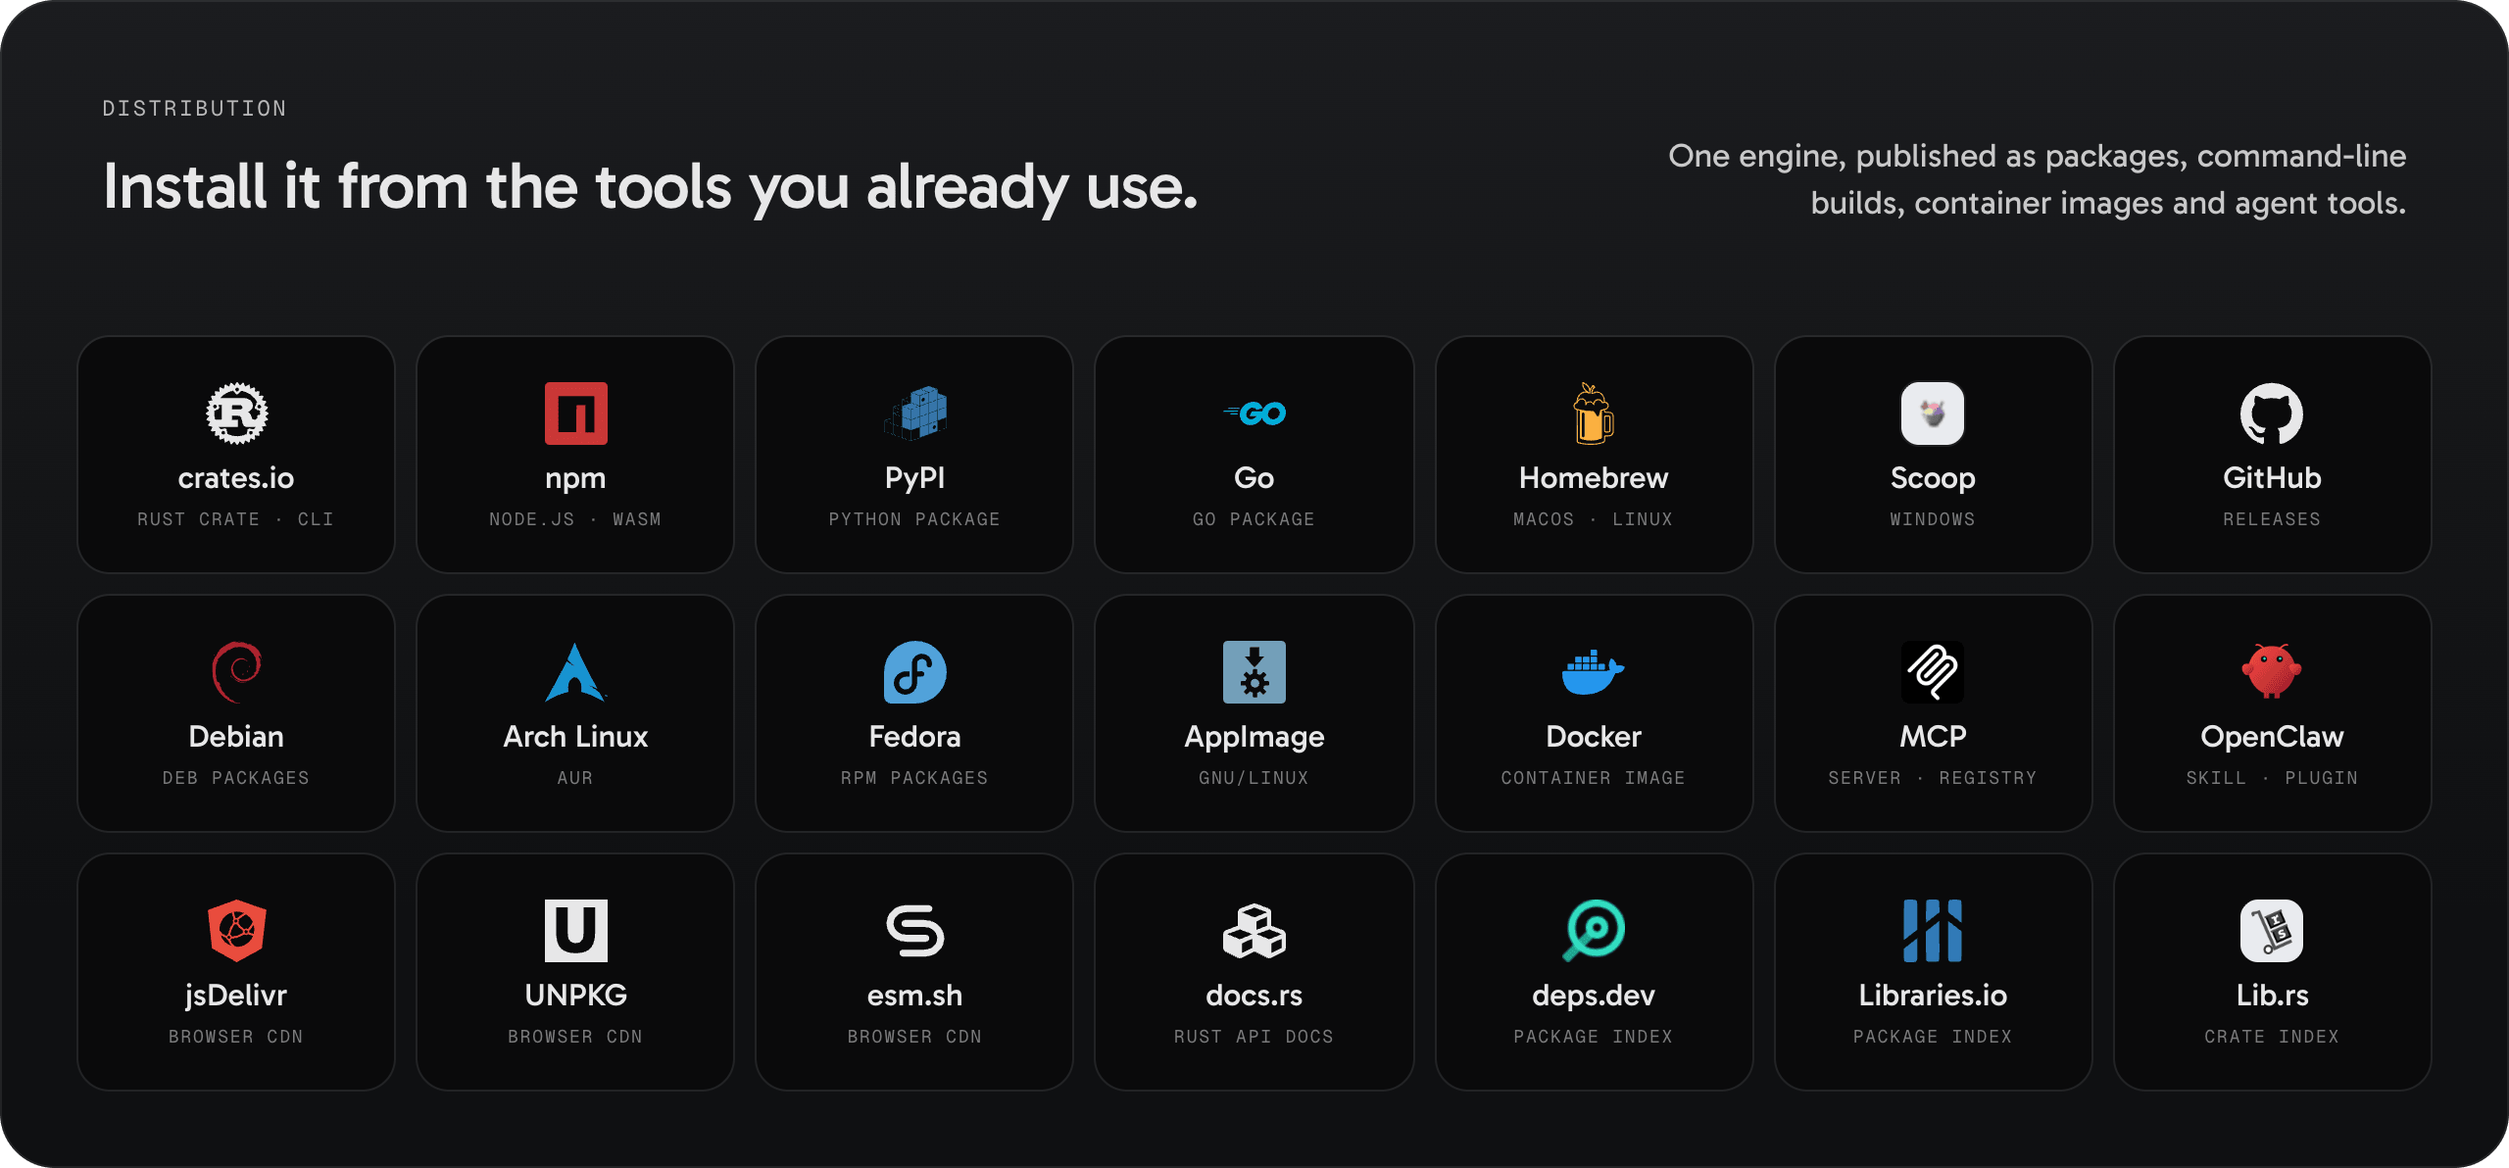
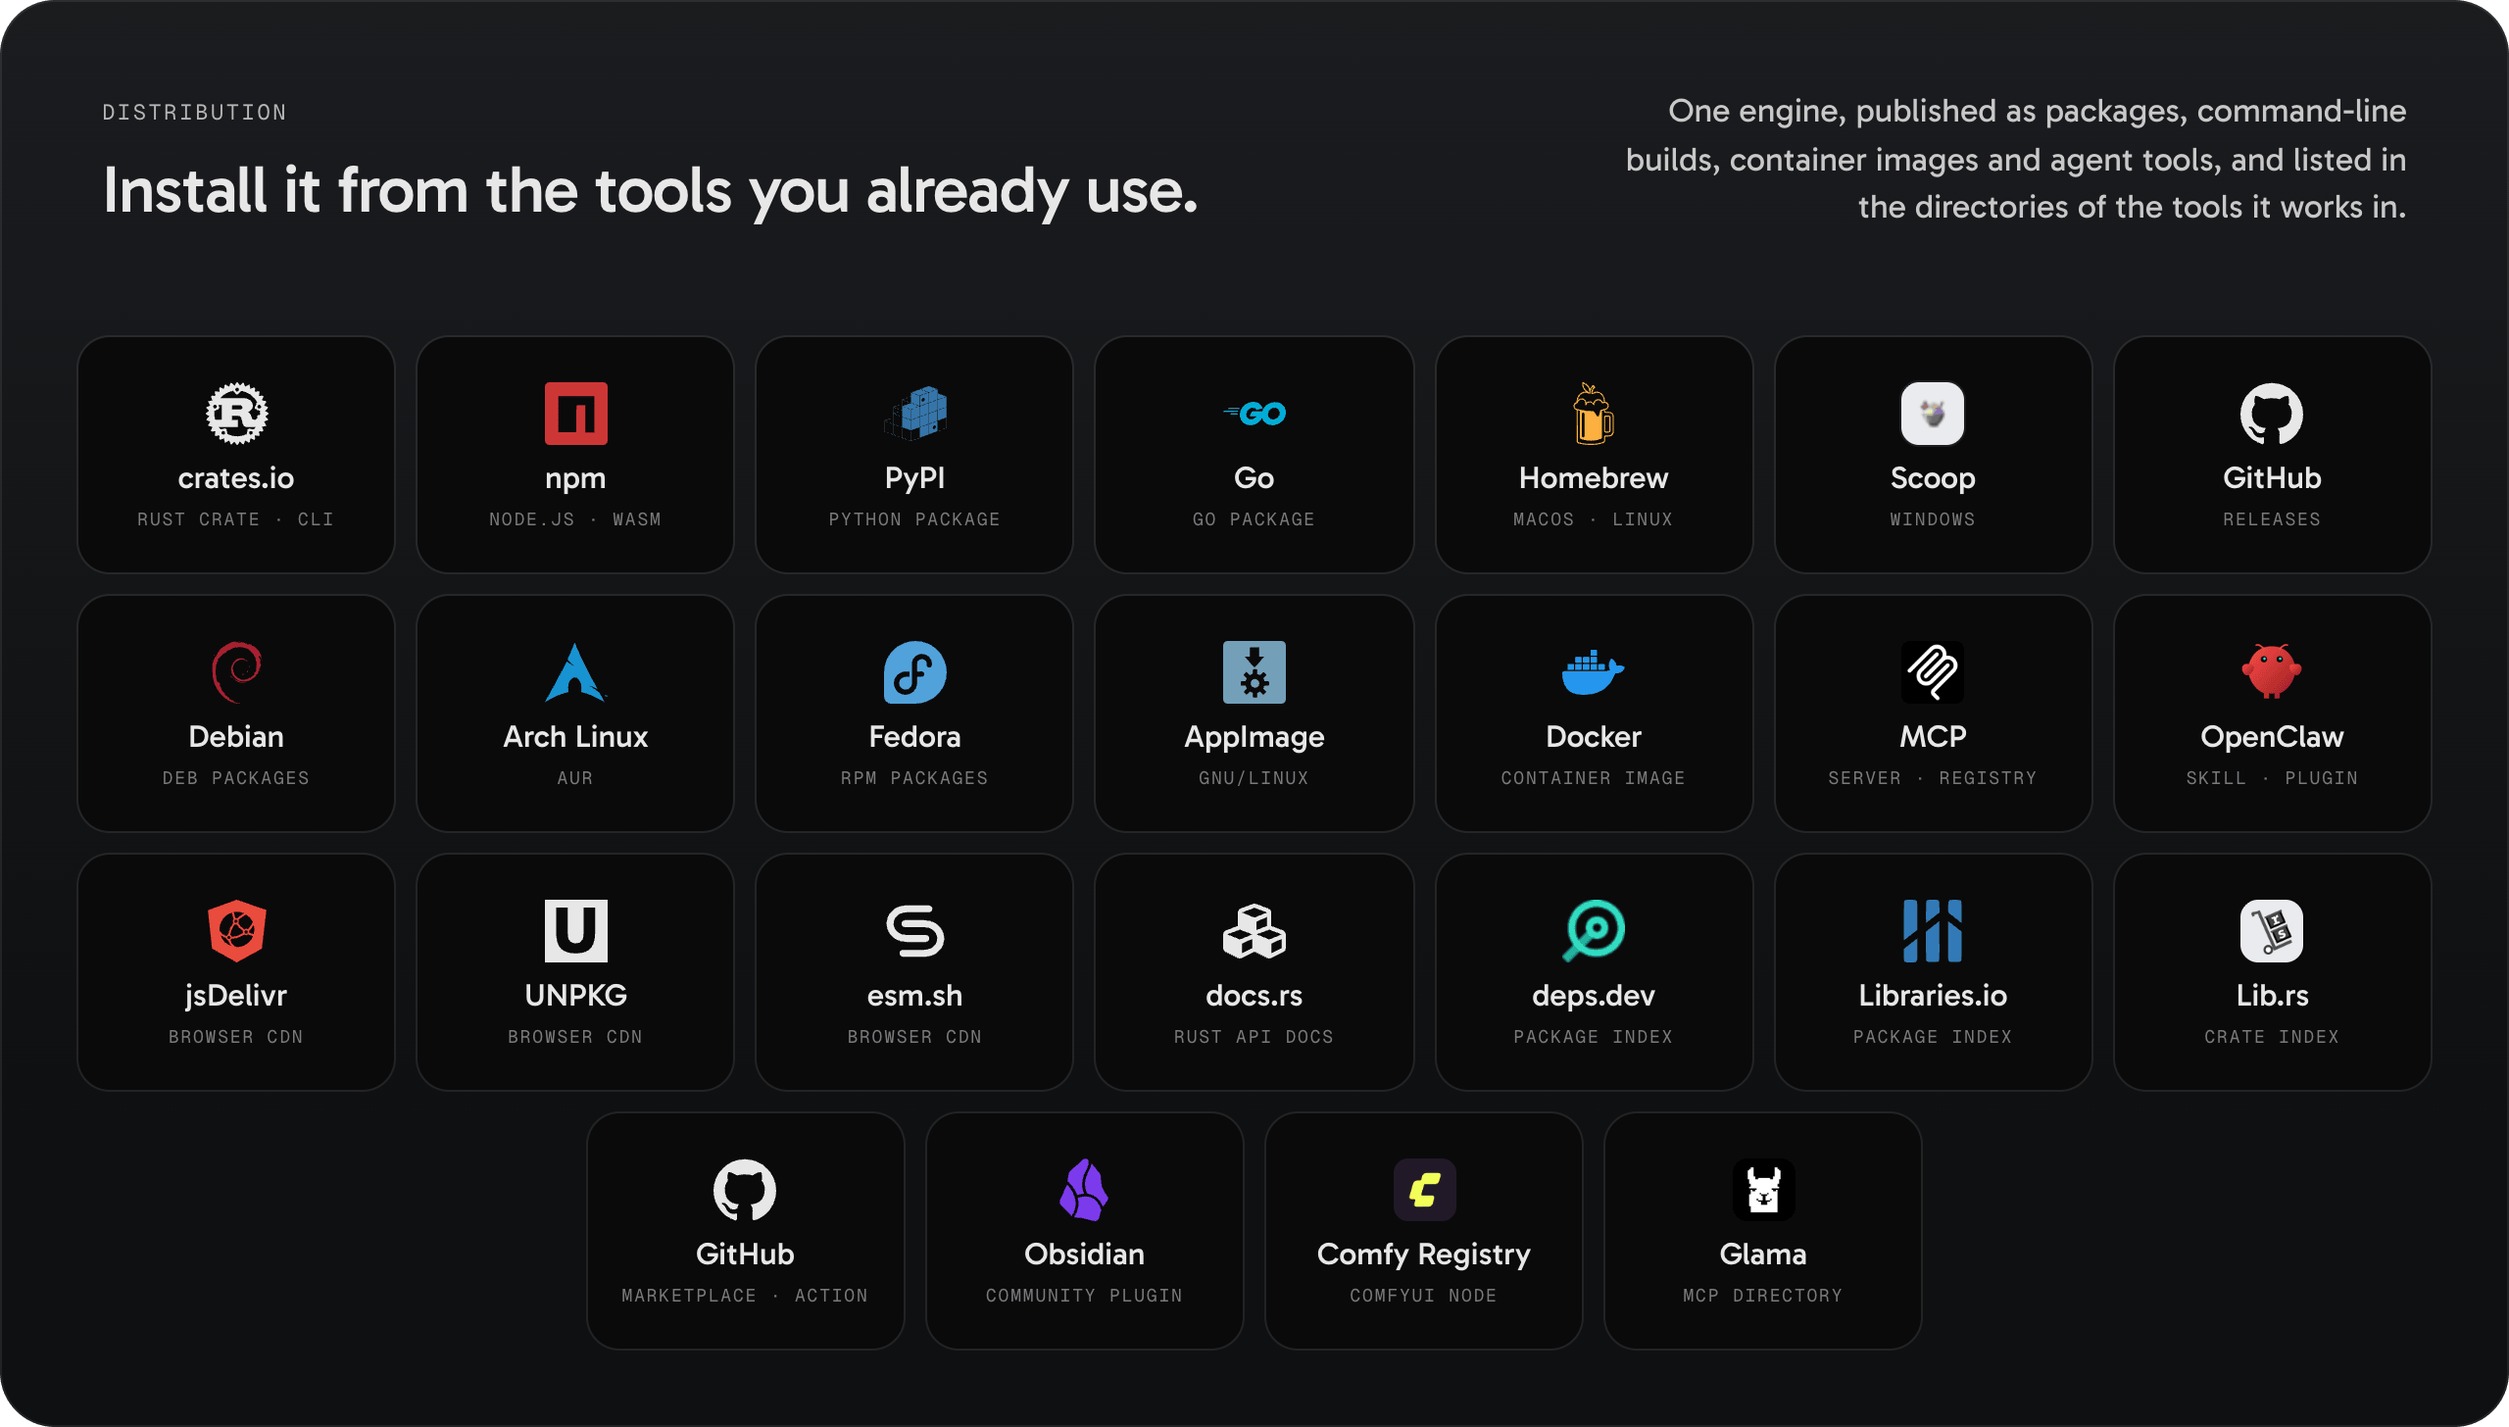
docs(profile): show the directories that list the scanner (#5)
The destinations picture gains the four live listings (GitHub
Marketplace, Obsidian community plugins, Comfy Registry, Glama) and its
alt text lists exactly what it shows. A new table under AI agents gives
each listing its mark, its entry and its guide, and names the
integrations that wait for their stores. Every listing page answered
200 at commit time.

diff --git a/profile/README.md b/profile/README.md
@@ -57,8 +57,8 @@ The engine also scores how reliably a QR design can be read, a check QR Code AI 
 <p align="center">
   <a href="https://github.com/qrcode-ai-com/qrcode-barcode-scanner-rust/blob/main/distribution/README.md">
     <picture>
-      <source media="(prefers-color-scheme: dark)" srcset="https://raw.githubusercontent.com/qrcode-ai-com/.github/main/profile/assets/destinations-dark.png?v=aac80a06a2b0">
-      <img src="https://raw.githubusercontent.com/qrcode-ai-com/.github/main/profile/assets/destinations-light.png?v=4443be3d3592" alt="Where the engine is published: crates.io, npm, PyPI, Go, Homebrew, Scoop, GitHub Releases, Debian, Arch Linux, Fedora, AppImage, a container image, MCP, OpenClaw, jsDelivr, UNPKG, esm.sh, docs.rs, deps.dev, Libraries.io and Lib.rs." width="100%">
+      <source media="(prefers-color-scheme: dark)" srcset="https://raw.githubusercontent.com/qrcode-ai-com/.github/main/profile/assets/destinations-dark.png?v=ea362e26e0d4">
+      <img src="https://raw.githubusercontent.com/qrcode-ai-com/.github/main/profile/assets/destinations-light.png?v=9cba7c70eae5" alt="Where the engine is published and listed: crates.io, npm, PyPI, Go, Homebrew, Scoop, GitHub Releases, Debian, Arch Linux, Fedora, AppImage, a container image, MCP, OpenClaw, jsDelivr, UNPKG, esm.sh, docs.rs, deps.dev, Libraries.io, Lib.rs, the GitHub Marketplace, the Obsidian community plugins, the Comfy Registry and Glama." width="100%">
     </picture>
   </a>
 </p>
@@ -152,6 +152,17 @@ The Rust, Node.js, browser and Python packages hold the engine. The Go and PHP p
 | <a href="https://clawhub.ai/qrcode-ai-com/skills/qrcode-barcode-scanner"><picture><source media="(prefers-color-scheme: dark)" srcset="https://raw.githubusercontent.com/qrcode-ai-com/.github/main/profile/assets/mark-openclaw-dark.png?v=9fcbd222bc5c"><img src="https://raw.githubusercontent.com/qrcode-ai-com/.github/main/profile/assets/mark-openclaw-light.png?v=f92868642883" alt="ClawHub" width="40" height="40"></picture></a><br>**Portable skill** | [`qrcode-barcode-scanner`](https://clawhub.ai/qrcode-ai-com/skills/qrcode-barcode-scanner) on ClawHub | [Skill instructions](https://github.com/qrcode-ai-com/qrcode-barcode-scanner-rust/tree/main/skills/qrcode-barcode-scanner) |
 | <a href="https://clawhub.ai/qrcode-ai-com/plugins/qrcode-barcode-scanner"><picture><source media="(prefers-color-scheme: dark)" srcset="https://raw.githubusercontent.com/qrcode-ai-com/.github/main/profile/assets/mark-openclaw-dark.png?v=9fcbd222bc5c"><img src="https://raw.githubusercontent.com/qrcode-ai-com/.github/main/profile/assets/mark-openclaw-light.png?v=f92868642883" alt="OpenClaw" width="40" height="40"></picture></a><br>**OpenClaw plugin** | [`@qrcode-ai-com/qrcode-barcode-scanner`](https://clawhub.ai/qrcode-ai-com/plugins/qrcode-barcode-scanner) on ClawHub | [Plugin setup](https://github.com/qrcode-ai-com/qrcode-barcode-scanner-rust/tree/main/integrations/openclaw) |
 
+### In the tools you work in
+
+| Integration | Listed as | Set up |
+| :---: | --- | --- |
+| <a href="https://github.com/marketplace/actions/qr-code-barcode-scanner"><picture><source media="(prefers-color-scheme: dark)" srcset="https://raw.githubusercontent.com/qrcode-ai-com/.github/main/profile/assets/mark-github-dark.png?v=1beef6411e01"><img src="https://raw.githubusercontent.com/qrcode-ai-com/.github/main/profile/assets/mark-github-light.png?v=84629428944a" alt="GitHub Marketplace" width="40" height="40"></picture></a><br>**GitHub Action** | [`qr-code-barcode-scanner`](https://github.com/marketplace/actions/qr-code-barcode-scanner) on the GitHub Marketplace | [Action guide](https://github.com/qrcode-ai-com/qrcode-barcode-scanner-rust/tree/main/integrations/github-action) |
+| <a href="https://community.obsidian.md/plugins/qrcode-barcode-scanner"><picture><source media="(prefers-color-scheme: dark)" srcset="https://raw.githubusercontent.com/qrcode-ai-com/.github/main/profile/assets/mark-obsidian-dark.png?v=43f72b4f65c1"><img src="https://raw.githubusercontent.com/qrcode-ai-com/.github/main/profile/assets/mark-obsidian-light.png?v=1e44702b653c" alt="Obsidian" width="40" height="40"></picture></a><br>**Obsidian plugin** | [`qrcode-barcode-scanner`](https://community.obsidian.md/plugins/qrcode-barcode-scanner) in the Obsidian community plugins | [Plugin guide](https://github.com/qrcode-ai-com/qrcode-barcode-scanner-rust/tree/main/integrations/obsidian) |
+| <a href="https://registry.comfy.org/nodes/qrcode-barcode-scanner-nodes"><picture><source media="(prefers-color-scheme: dark)" srcset="https://raw.githubusercontent.com/qrcode-ai-com/.github/main/profile/assets/mark-comfyui-dark.png?v=96af9ee25553"><img src="https://raw.githubusercontent.com/qrcode-ai-com/.github/main/profile/assets/mark-comfyui-light.png?v=56a787fd873c" alt="Comfy Registry" width="40" height="40"></picture></a><br>**ComfyUI node** | [`qrcode-barcode-scanner-nodes`](https://registry.comfy.org/nodes/qrcode-barcode-scanner-nodes) on the Comfy Registry | [Node guide](https://github.com/qrcode-ai-com/qrcode-barcode-scanner-rust/tree/main/integrations/comfyui) |
+| <a href="https://glama.ai/mcp/servers/qrcode-ai-com/qrcode-barcode-scanner-mcp"><picture><source media="(prefers-color-scheme: dark)" srcset="https://raw.githubusercontent.com/qrcode-ai-com/.github/main/profile/assets/mark-glama-dark.png?v=cd36fc162618"><img src="https://raw.githubusercontent.com/qrcode-ai-com/.github/main/profile/assets/mark-glama-light.png?v=edbf6212f964" alt="Glama" width="40" height="40"></picture></a><br>**MCP server on Glama** | [`qrcode-barcode-scanner-mcp`](https://glama.ai/mcp/servers/qrcode-ai-com/qrcode-barcode-scanner-mcp) in the Glama MCP directory | [Glama setup](https://github.com/qrcode-ai-com/qrcode-barcode-scanner-rust/tree/main/distribution/glama) |
+
+The integrations for n8n, Node-RED, Activepieces, Raycast, Dify, VS Code, Apify, napari and the browsers are built and tested in the [engine repository](https://github.com/qrcode-ai-com/qrcode-barcode-scanner-rust/tree/main/integrations) and wait for their stores.
+
 ### Browser CDNs and package indexes
 
 | <a href="https://www.jsdelivr.com/package/npm/@qrcode-ai-com/qrcode-barcode-scanner-wasm"><picture><source media="(prefers-color-scheme: dark)" srcset="https://raw.githubusercontent.com/qrcode-ai-com/.github/main/profile/assets/mark-jsdelivr-dark.png?v=704e9fe56573"><img src="https://raw.githubusercontent.com/qrcode-ai-com/.github/main/profile/assets/mark-jsdelivr-light.png?v=8258a3d2624c" alt="jsDelivr" width="40" height="40"></picture></a> | <a href="https://unpkg.com/browse/@qrcode-ai-com/qrcode-barcode-scanner-wasm/"><picture><source media="(prefers-color-scheme: dark)" srcset="https://raw.githubusercontent.com/qrcode-ai-com/.github/main/profile/assets/mark-unpkg-dark.png?v=9240e361b8bd"><img src="https://raw.githubusercontent.com/qrcode-ai-com/.github/main/profile/assets/mark-unpkg-light.png?v=ab42a30b0c3a" alt="UNPKG" width="40" height="40"></picture></a> | <a href="https://esm.sh/@qrcode-ai-com/qrcode-barcode-scanner-wasm"><picture><source media="(prefers-color-scheme: dark)" srcset="https://raw.githubusercontent.com/qrcode-ai-com/.github/main/profile/assets/mark-esm-dark.png?v=f28f1715017a"><img src="https://raw.githubusercontent.com/qrcode-ai-com/.github/main/profile/assets/mark-esm-light.png?v=24d30c1c4ac7" alt="esm.sh" width="40" height="40"></picture></a> | <a href="https://docs.rs/qrcode-barcode-scanner"><picture><source media="(prefers-color-scheme: dark)" srcset="https://raw.githubusercontent.com/qrcode-ai-com/.github/main/profile/assets/mark-docsrs-dark.png?v=a4db02014c02"><img src="https://raw.githubusercontent.com/qrcode-ai-com/.github/main/profile/assets/mark-docsrs-light.png?v=cb7d97c77d8f" alt="docs.rs" width="40" height="40"></picture></a> | <a href="https://deps.dev/npm/%40qrcode-ai-com%2Fqrcode-barcode-scanner"><picture><source media="(prefers-color-scheme: dark)" srcset="https://raw.githubusercontent.com/qrcode-ai-com/.github/main/profile/assets/mark-depsdev-dark.png?v=e866b7c993df"><img src="https://raw.githubusercontent.com/qrcode-ai-com/.github/main/profile/assets/mark-depsdev-light.png?v=3ae40490d86f" alt="deps.dev" width="40" height="40"></picture></a> | <a href="https://libraries.io/npm/@qrcode-ai-com%2Fqrcode-barcode-scanner"><picture><source media="(prefers-color-scheme: dark)" srcset="https://raw.githubusercontent.com/qrcode-ai-com/.github/main/profile/assets/mark-librariesio-dark.png?v=fb6425afbe1c"><img src="https://raw.githubusercontent.com/qrcode-ai-com/.github/main/profile/assets/mark-librariesio-light.png?v=2c6f9781f3cd" alt="Libraries.io" width="40" height="40"></picture></a> | <a href="https://lib.rs/crates/qrcode-barcode-scanner"><picture><source media="(prefers-color-scheme: dark)" srcset="https://raw.githubusercontent.com/qrcode-ai-com/.github/main/profile/assets/mark-librs-dark.png?v=cbc60370271d"><img src="https://raw.githubusercontent.com/qrcode-ai-com/.github/main/profile/assets/mark-librs-light.png?v=59a27a02a142" alt="Lib.rs" width="40" height="40"></picture></a> |
@@ -161,7 +172,7 @@ The Rust, Node.js, browser and Python packages hold the engine. The Go and PHP p
 
 The CDNs serve the npm browser package. The indexes describe the packages published to npm and crates.io.
 
-<sub>Language and platform names and logos belong to their owners. They identify a runtime or show where a package is published, and imply no endorsement. The Go gopher was designed by Renée French ([CC BY 4.0](https://creativecommons.org/licenses/by/4.0/)); the PHP logo was designed by Colin Viebrock ([CC BY-SA 4.0](https://creativecommons.org/licenses/by-sa/4.0/)).</sub>
+<sub>Language, platform and host names and logos belong to their owners. They identify a runtime, show where a package is published or name a host that lists it, and imply no endorsement. The Go gopher was designed by Renée French ([CC BY 4.0](https://creativecommons.org/licenses/by/4.0/)); the PHP logo was designed by Colin Viebrock ([CC BY-SA 4.0](https://creativecommons.org/licenses/by-sa/4.0/)).</sub>
 
 ## Create the codes it reads
 

diff --git a/README.md b/README.md
@@ -17,7 +17,7 @@ The organization overview is maintained in [profile/README.md](profile/README.md
 
 The package banners and journeys are animations. They are stored here so that they do not weigh on a clone of the engine. A banner quotes the first lines of its package's quick start or its channel's install commands, and a journey names its install command and its calls: render them again when that code changes. An integration banner shows how its host is used, with the names of the commands, menus and settings its README gives, and what the host gives back: render it again when those names change. The MCP, OpenClaw and skill banners name a version (0.3.1, 0.2.0): render them again when that version changes.
 
-Language and platform names and logos belong to their owners; here they identify a runtime or show where a package is published, and imply no endorsement. The Go gopher was designed by Renée French and is licensed under [Creative Commons Attribution 4.0](https://creativecommons.org/licenses/by/4.0/). The PHP logo was designed by Colin Viebrock and is licensed under [Creative Commons Attribution-ShareAlike 4.0](https://creativecommons.org/licenses/by-sa/4.0/). Rust and the Rust logo are trademarks of the Rust Foundation, Node.js is a trademark of the OpenJS Foundation, and the Python logo is a trademark of the Python Software Foundation. Flutter and the Flutter logo are trademarks of Google LLC, Kotlin and the Kotlin logo are trademarks of the Kotlin Foundation, Swift and the Swift logo are trademarks of Apple Inc., and .NET is a trademark of Microsoft Corporation. Debian is a registered trademark of Software in the Public Interest, Inc., Fedora and its logo are trademarks of Red Hat, Inc., the Arch Linux name and logo are trademarks of their owners, Docker and the Docker logo are trademarks of Docker, Inc., Chocolatey is a trademark of Chocolatey Software, Inc., and GitHub and its mark are trademarks of GitHub, Inc. Visual Studio Code and Microsoft Edge are trademarks of Microsoft Corporation, Node-RED is a trademark of the OpenJS Foundation, Dify is a trademark of LangGenius, Inc., Chrome is a trademark of Google LLC, Firefox is a trademark of the Mozilla Foundation, and the names and logos of Obsidian, n8n, Activepieces, Raycast, ComfyUI, Apify and napari are trademarks of their owners, as are the names of the coding agent clients the plugin banner lists. The integrations are independent open-source projects, not affiliated with or endorsed by these hosts.
+Language, platform and host names and logos belong to their owners; here they identify a runtime, show where a package is published or name a host that lists it, and imply no endorsement. The Go gopher was designed by Renée French and is licensed under [Creative Commons Attribution 4.0](https://creativecommons.org/licenses/by/4.0/). The PHP logo was designed by Colin Viebrock and is licensed under [Creative Commons Attribution-ShareAlike 4.0](https://creativecommons.org/licenses/by-sa/4.0/). Rust and the Rust logo are trademarks of the Rust Foundation, Node.js is a trademark of the OpenJS Foundation, and the Python logo is a trademark of the Python Software Foundation. Flutter and the Flutter logo are trademarks of Google LLC, Kotlin and the Kotlin logo are trademarks of the Kotlin Foundation, Swift and the Swift logo are trademarks of Apple Inc., and .NET is a trademark of Microsoft Corporation. Debian is a registered trademark of Software in the Public Interest, Inc., Fedora and its logo are trademarks of Red Hat, Inc., the Arch Linux name and logo are trademarks of their owners, Docker and the Docker logo are trademarks of Docker, Inc., Chocolatey is a trademark of Chocolatey Software, Inc., and GitHub and its mark are trademarks of GitHub, Inc. Visual Studio Code and Microsoft Edge are trademarks of Microsoft Corporation, Node-RED is a trademark of the OpenJS Foundation, Dify is a trademark of LangGenius, Inc., Chrome is a trademark of Google LLC, Firefox is a trademark of the Mozilla Foundation, and the names and logos of Obsidian, n8n, Activepieces, Raycast, ComfyUI, Apify, napari and Glama are trademarks of their owners, as are the names of the coding agent clients the plugin banner lists. The integrations are independent open-source projects, not affiliated with or endorsed by these hosts.
 
 Visit [qrcode-ai.com](https://qrcode-ai.com) to create QR codes and barcodes. The scanner source is in [qrcode-barcode-scanner-rust](https://github.com/qrcode-ai-com/qrcode-barcode-scanner-rust).
 
